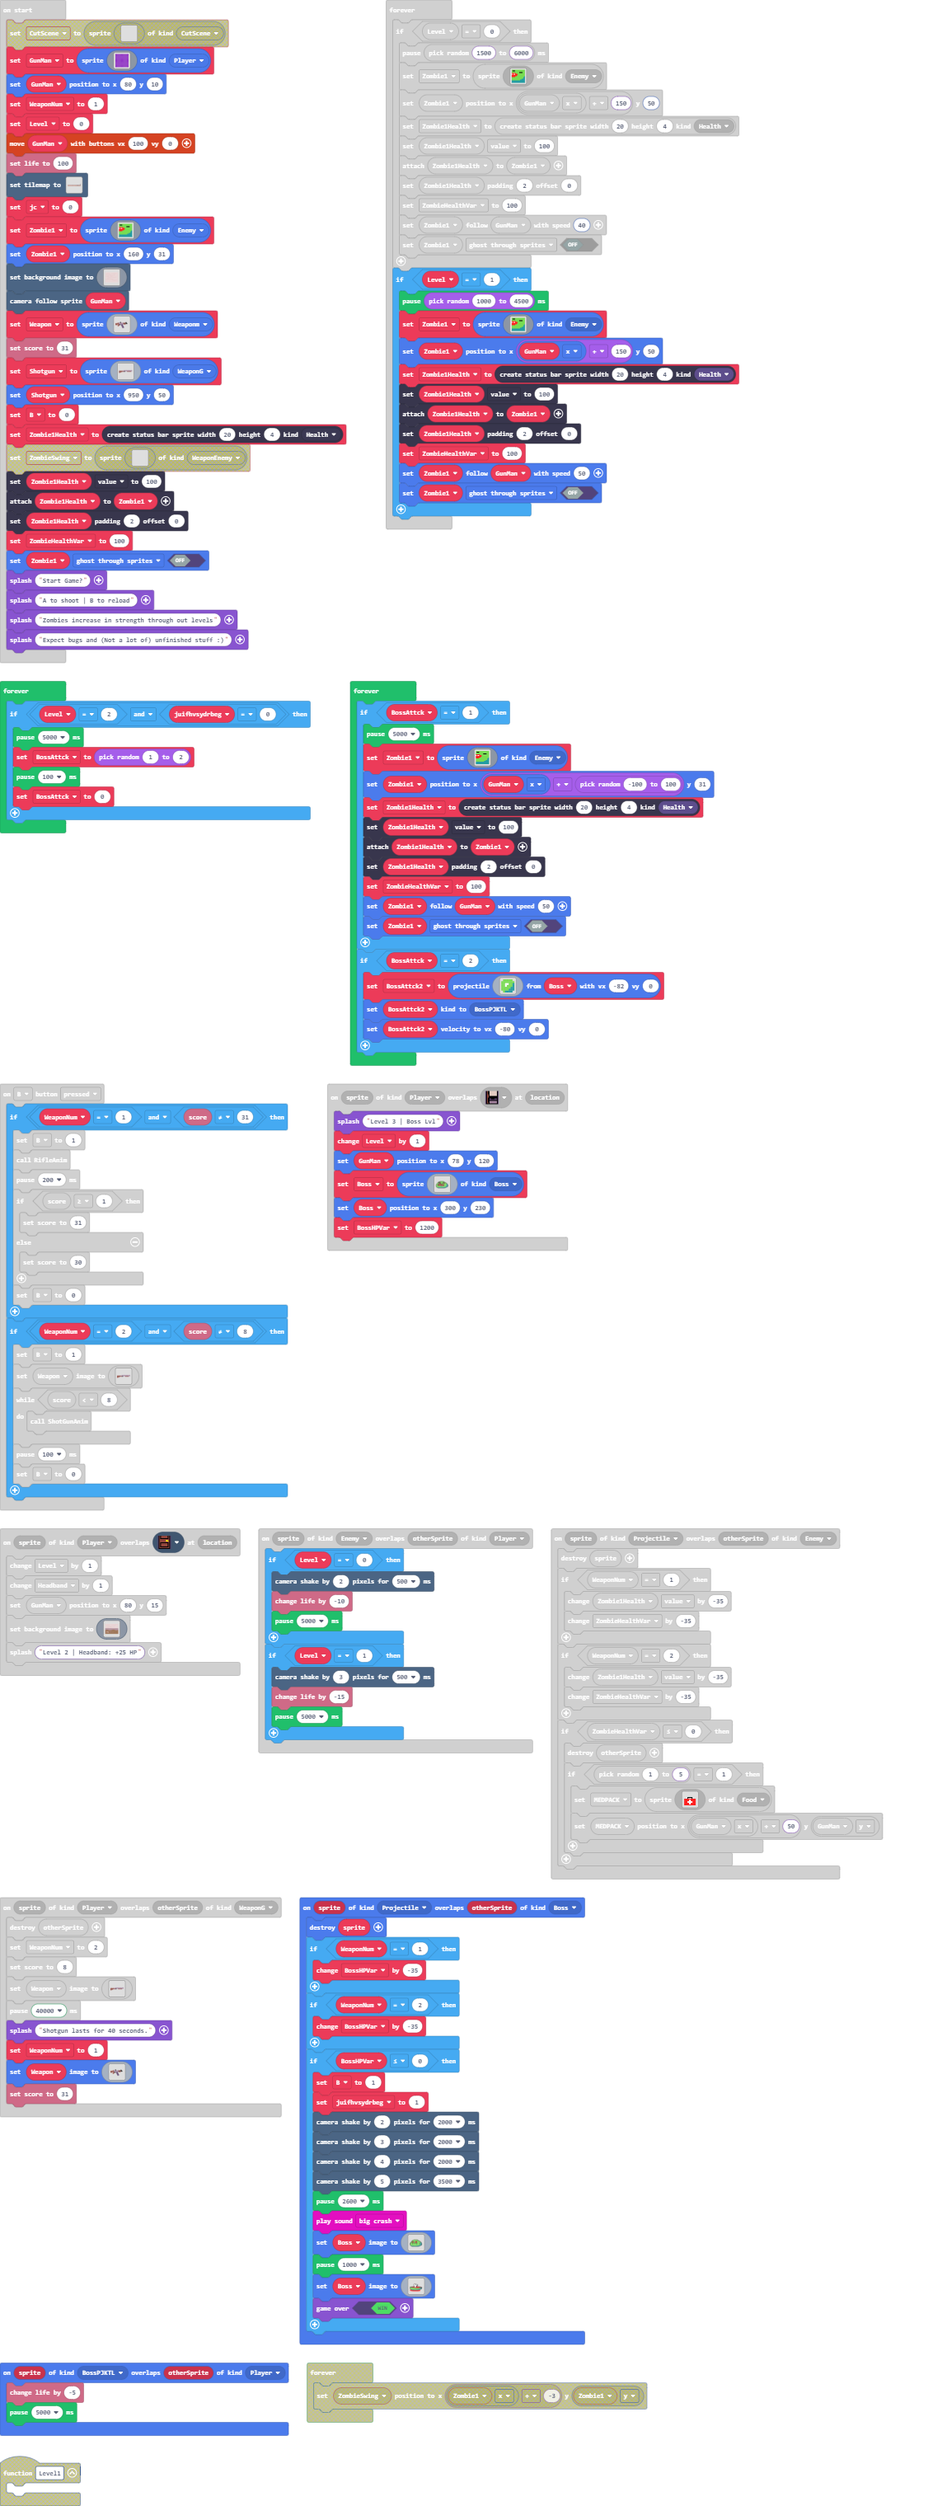
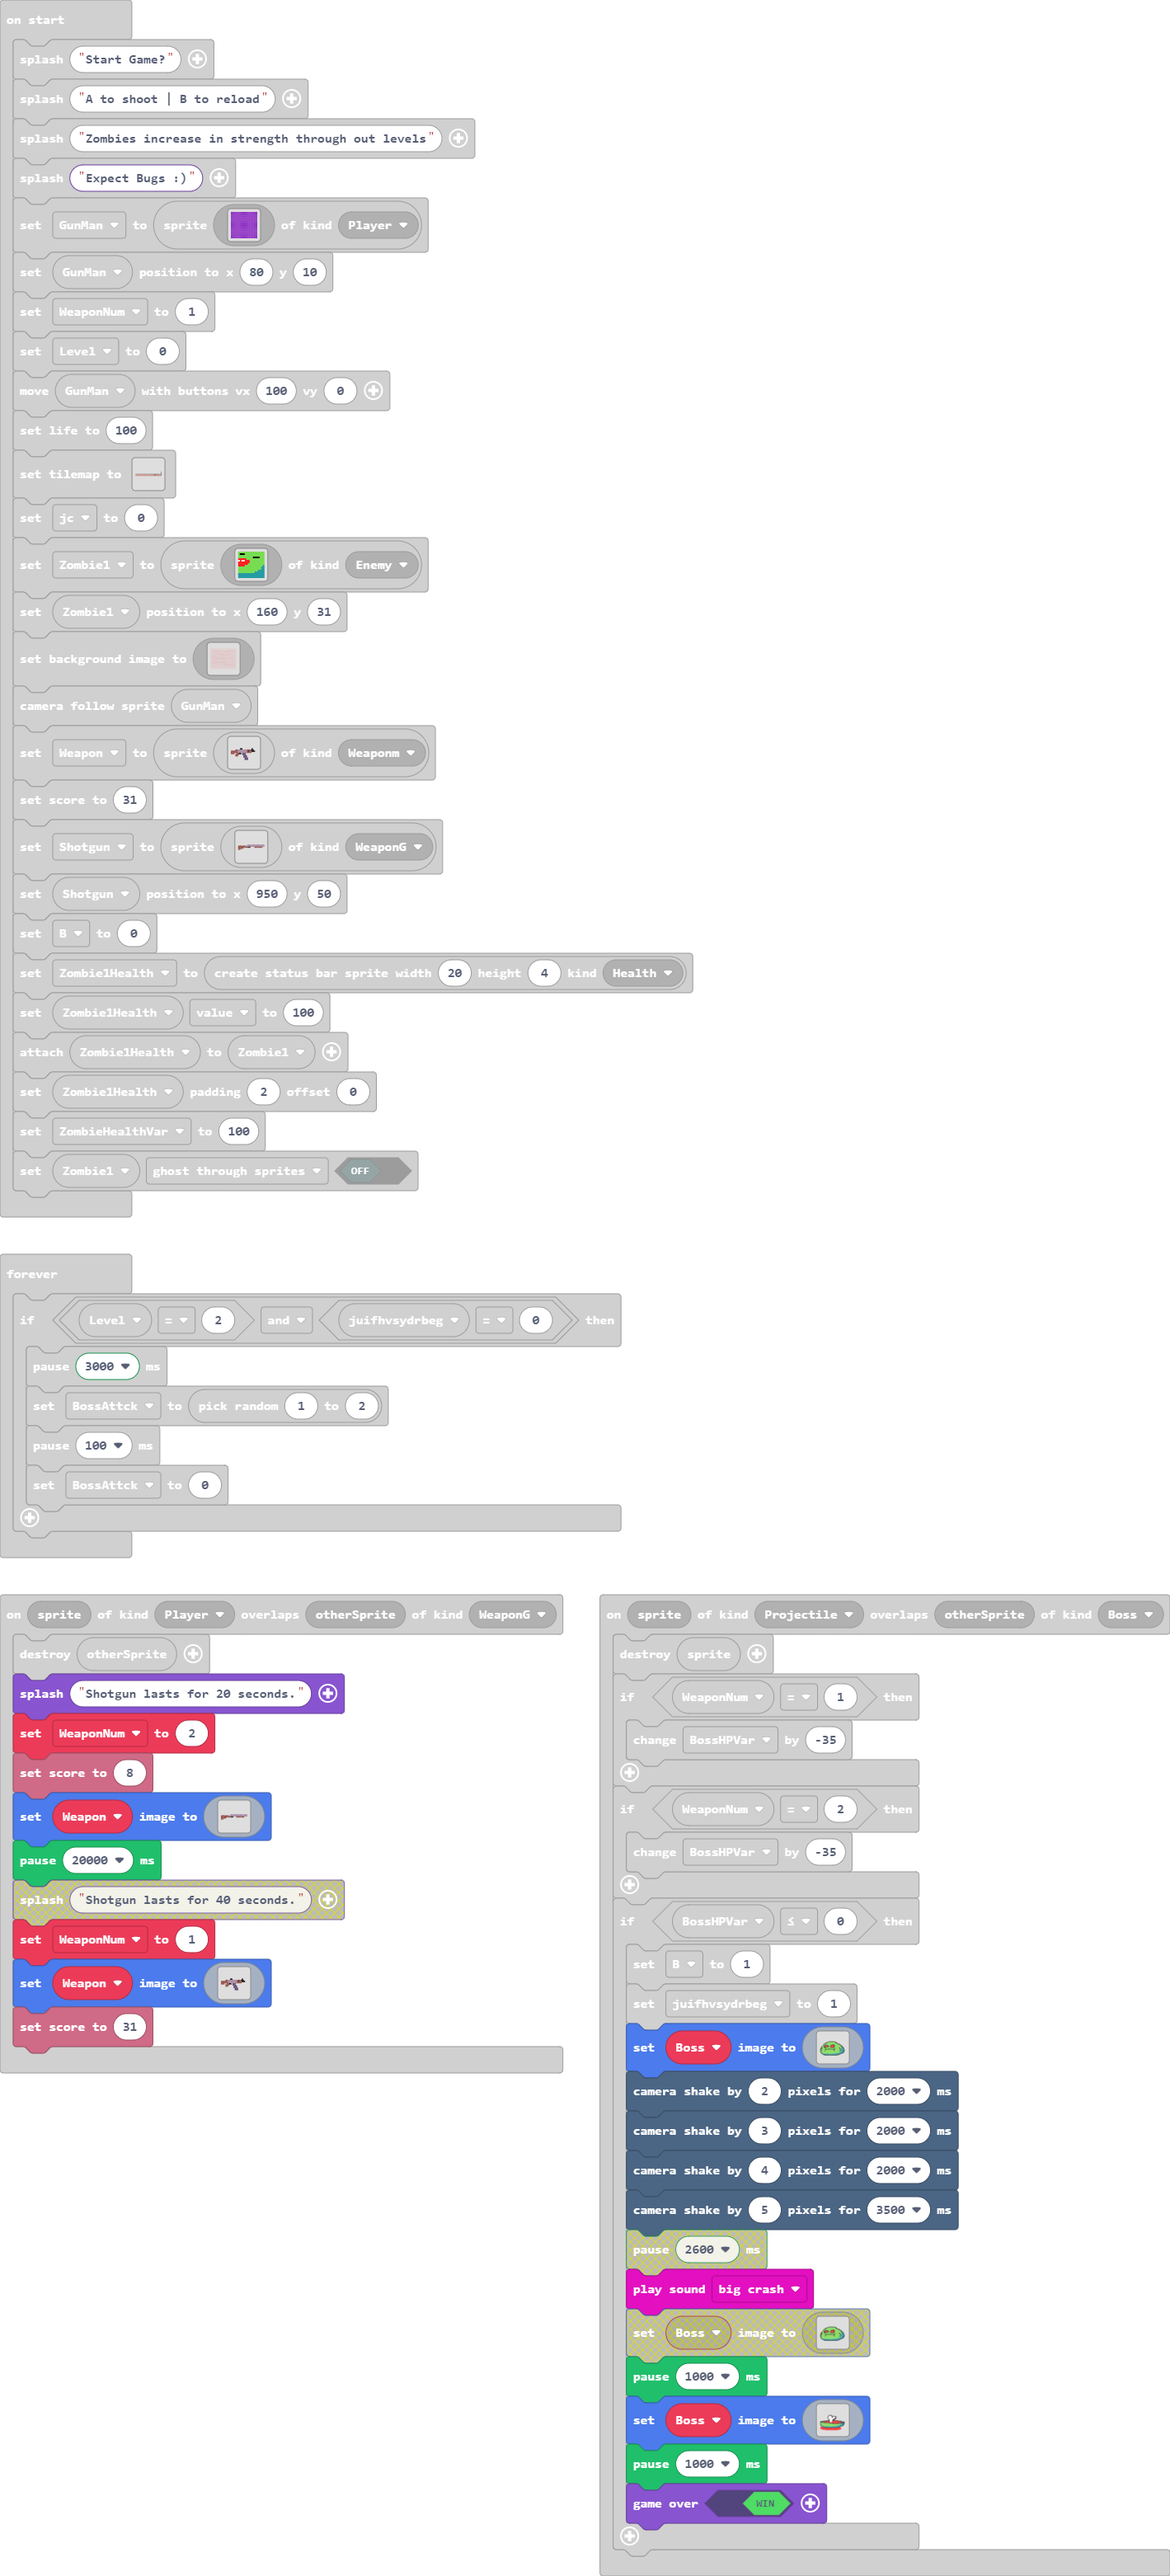
Update main.blocks, main.ts, tilemap.g.jres, tilemap.g.ts

diff --git a/main.ts b/main.ts
@@ -14,6 +14,7 @@ controller.up.onEvent(ControllerButtonEvent.Pressed, function () {
 })
 sprites.onOverlap(SpriteKind.Player, SpriteKind.WeaponG, function (sprite, otherSprite) {
     otherSprite.destroy()
+    game.splash("Shotgun lasts for 20 seconds.")
     WeaponNum = 2
     info.setScore(8)
     Weapon.setImage(img`
@@ -33,8 +34,7 @@ sprites.onOverlap(SpriteKind.Player, SpriteKind.WeaponG, function (sprite, other
         ..........................
         ..........................
         `)
-    pause(40000)
-    game.splash("Shotgun lasts for 40 seconds.")
+    pause(20000)
     WeaponNum = 1
     Weapon.setImage(img`
         .......................
@@ -350,12 +350,6 @@ sprites.onOverlap(SpriteKind.Projectile, SpriteKind.Boss, function (sprite, othe
     if (BossHPVar <= 0) {
         B = 1
         juifhvsydrbeg = 1
-        scene.cameraShake(2, 2000)
-        scene.cameraShake(3, 2000)
-        scene.cameraShake(4, 2000)
-        scene.cameraShake(5, 3500)
-        pause(2600)
-        music.bigCrash.play()
         Boss.setImage(img`
             ................................................................
             ................................................................
@@ -422,6 +416,11 @@ sprites.onOverlap(SpriteKind.Projectile, SpriteKind.Boss, function (sprite, othe
             ................................................................
             ................................................................
             `)
+        scene.cameraShake(2, 2000)
+        scene.cameraShake(3, 2000)
+        scene.cameraShake(4, 2000)
+        scene.cameraShake(5, 3500)
+        music.bigCrash.play()
         pause(1000)
         Boss.setImage(img`
             ................................................................
@@ -489,6 +488,7 @@ sprites.onOverlap(SpriteKind.Projectile, SpriteKind.Boss, function (sprite, othe
             ................................................................
             ................................................................
             `)
+        pause(1000)
         game.over(true)
     }
 })
@@ -762,7 +762,7 @@ let GunMan: Sprite = null
 game.splash("Start Game?")
 game.splash("A to shoot | B to reload")
 game.splash("Zombies increase in strength through out levels")
-game.splash("Expect bugs and (Not a lot of) unfinished stuff :)")
+game.splash("Expect Bugs :)")
 GunMan = sprites.create(img`
     a a a a a a a a a a a a a a a 
     a a a a a a a a a a a a a a a 
@@ -1194,7 +1194,7 @@ forever(function () {
 })
 forever(function () {
     if (Level == 2 && juifhvsydrbeg == 0) {
-        pause(5000)
+        pause(3000)
         BossAttck = randint(1, 2)
         pause(100)
         BossAttck = 0

diff --git a/tilemap.g.ts b/tilemap.g.ts
@@ -200,7 +200,7 @@ namespace myTiles {
 ..........................................................................222.......................
 ........................................................................2222222.......22............
 ......................................................................222222222......222............
-........2..2..........2.2..................................22.......222222222222....22222...........
+........2..2..........2.2...................2..............22.......222222222222....22222...........
 2222222222222222222222222222222222222222222222222222222222222222222222222222222222222222222222222222
 ....................................................................................................
 `, [myTiles.transparency16,myTiles.tile9,myTiles.tile11,myTiles.tile12,myTiles.tile1,myTiles.tile2,myTiles.tile4,myTiles.tile5,myTiles.tile6,myTiles.tile8,myTiles.tile3,myTiles.tile7,myTiles.tile10,myTiles.tile13,myTiles.tile18,myTiles.tile15,myTiles.tile16,myTiles.tile21,myTiles.tile33,myTiles.tile34,myTiles.tile35,myTiles.tile36,myTiles.tile37,myTiles.tile38,myTiles.tile27,myTiles.tile42,myTiles.tile43,myTiles.tile44], TileScale.Sixteen);
